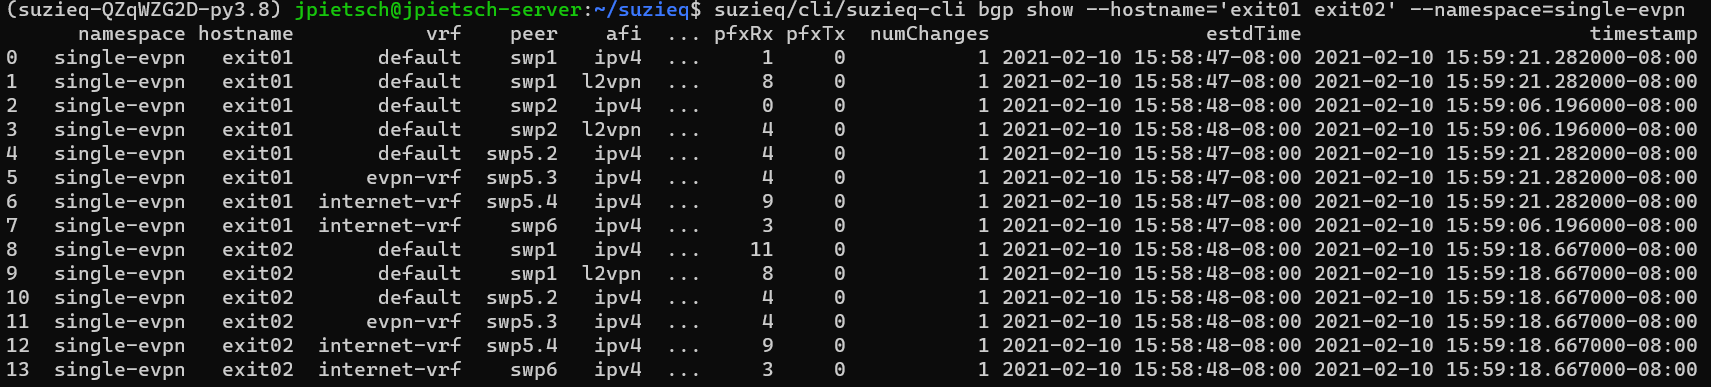
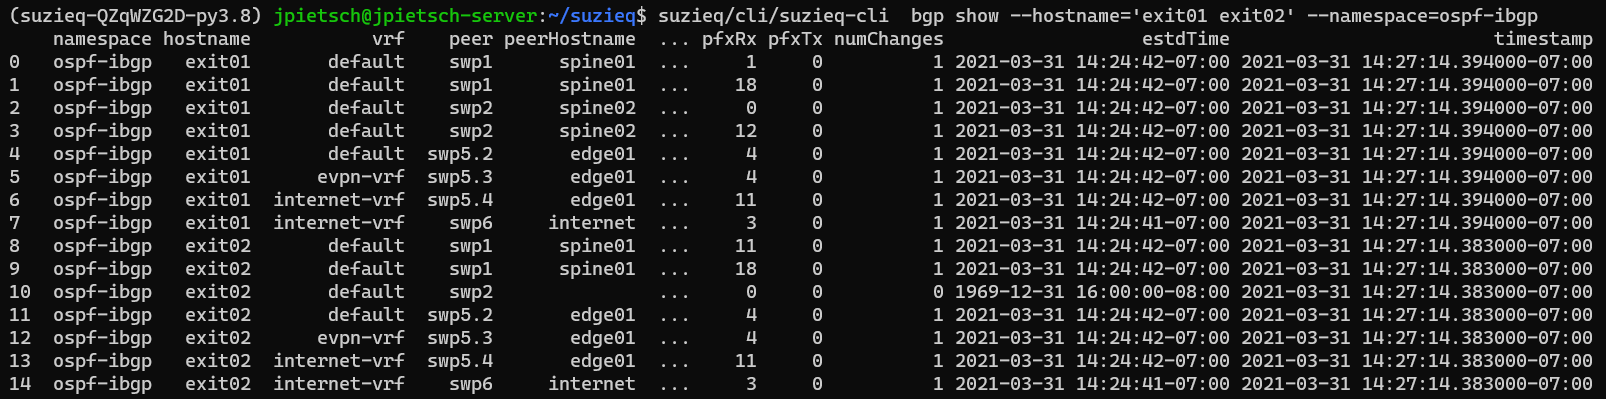
updated picture and text for XNA post

diff --git a/_drafts/2021-03-101-Exploratory-Network-Analysis.md b/_drafts/2021-03-101-Exploratory-Network-Analysis.md
@@ -4,7 +4,7 @@ comments: true
 author: Justin Pietsch
 title: Exploratory Network Analysis (XNA)
 excerpt: Networks are complicated, have lots of moving pieces, and are hard to understand. How do you explore your network now to find out what protocols you are using, or if is is operating as expected? 
-description: You need to be able to explore and find things easily in your network.
+description: You need to be able to explore and find things easily in your network. XNA, alongside Network Observability, allows you to understand your network and find things in your network.
 ---
 ![Suzieq interface type](/assets/images/2021-03-xna/interface-show-type.png)
 
@@ -83,7 +83,7 @@ I'm going to jump into a Suzieq feature that is Alpha, and a little unsightly, b
 Same thing for BGP. You'll notice that there is a link that exists with LLDP from spine02 to exit02 that does not exist in BGP. This is clearly a bug (or the BGP session is down, but in the this case it's a bug in the configuration.) By exploring this data we can see that the network is not the way that we expect.
 ![Suzieq topology BGP](/assets/images/2021-03-xna/ospf-ibgp_bgp.png)
 
-If we look at the BGP sessions for exit01 and exit02, we can see that there is a missing session from spine02 to exit02. ![Suzieq BGP show](/assets/images/2021-03-xna/bgp-show-exit01-exit02.png)
+If we look at the BGP sessions for exit01 and exit02, we can see that on exit01 there are sessions to spine01 and spine02, on exit02 there are only BGP sessions to spine01 and not spine02 ![Suzieq BGP show](/assets/images/2021-03-xna/bgp-show-exit01-exit02.png)
 
 ### Path Trace
 Sometimes you need to dive into a particular question to understand your network.  Suzieq can show you the forwarding decisions that routers make for om a source, destination pair with the path command. ![Suzeq path trace](/assets/images/2021-03-xna/path-show-internet.png) That looks weird. There should be a path from spine01 and spine02 to exit01, just like there is to exit02. If you click on the link spine02 to exit02, you will see how the forwarding decisions are made. ![Suzieq path debug](/assets/images/2021-03-xna/spine02-exit02-path.png) You can see that the route was populated by BGP, but it only has one interface out. Spine02 doesn't have a route to 172.16.253.1 that has a nexthop on exit01. The reason is what is shown in the topology section above, there is no BGP session from spine02 to exit01.
